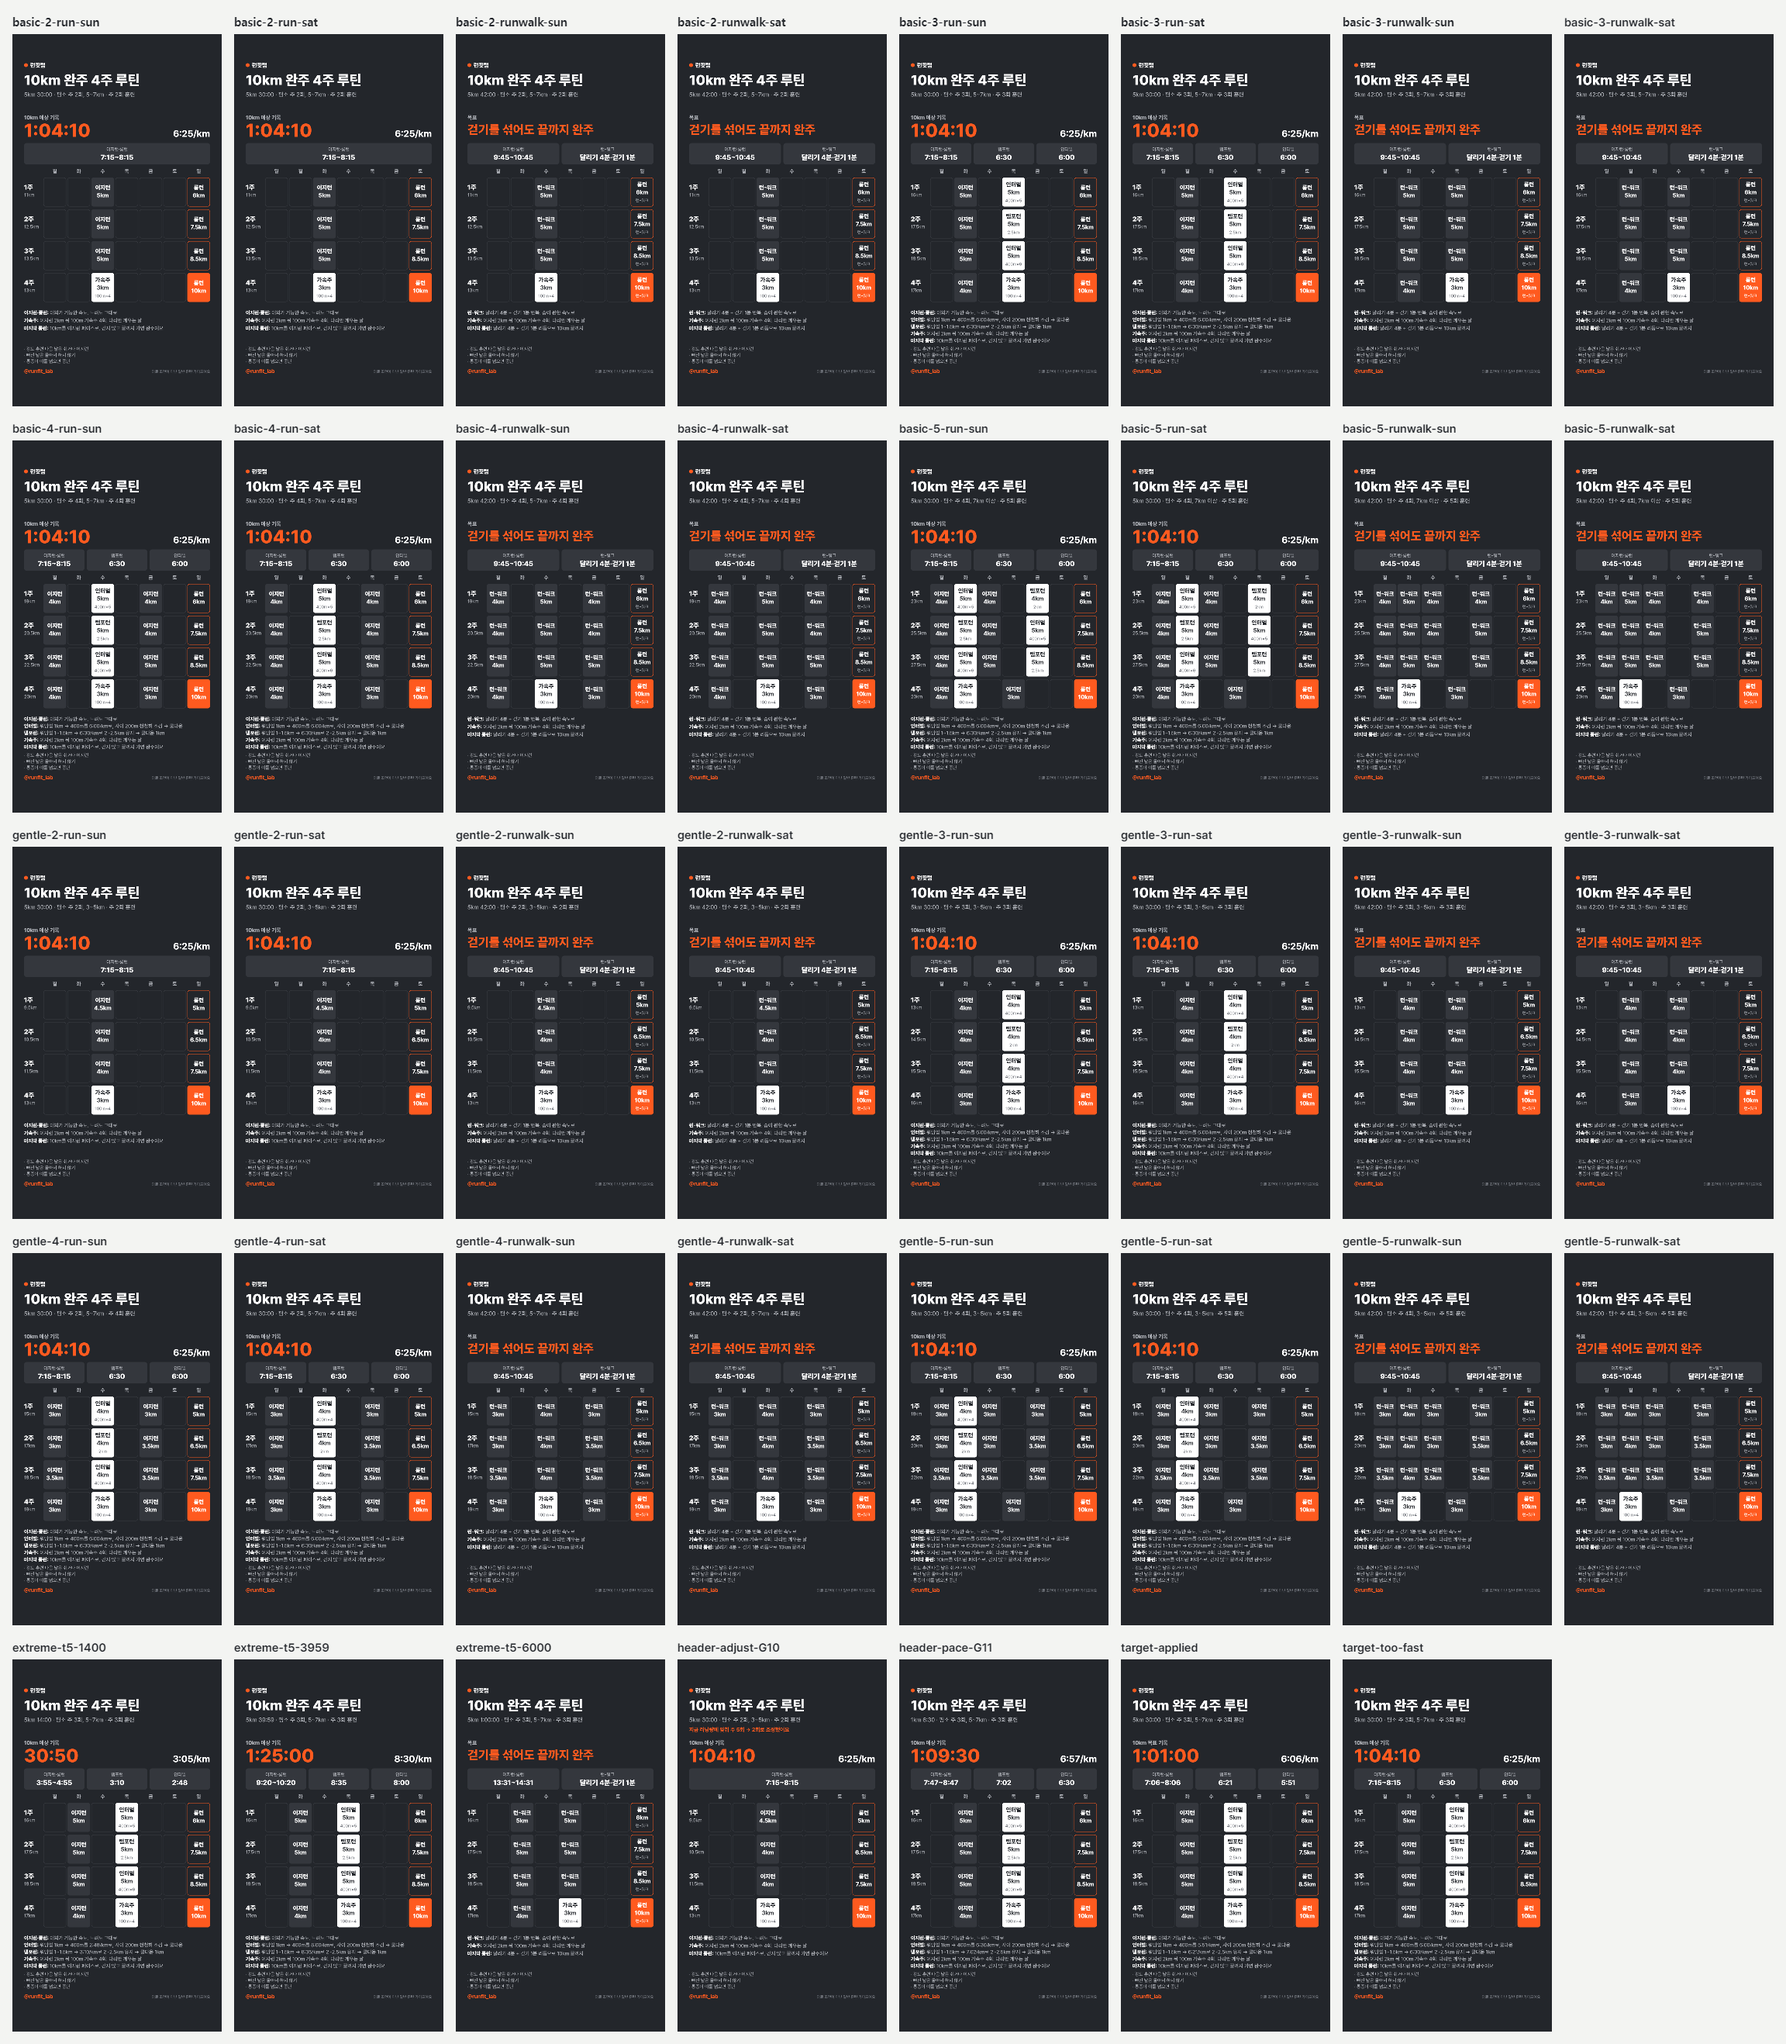
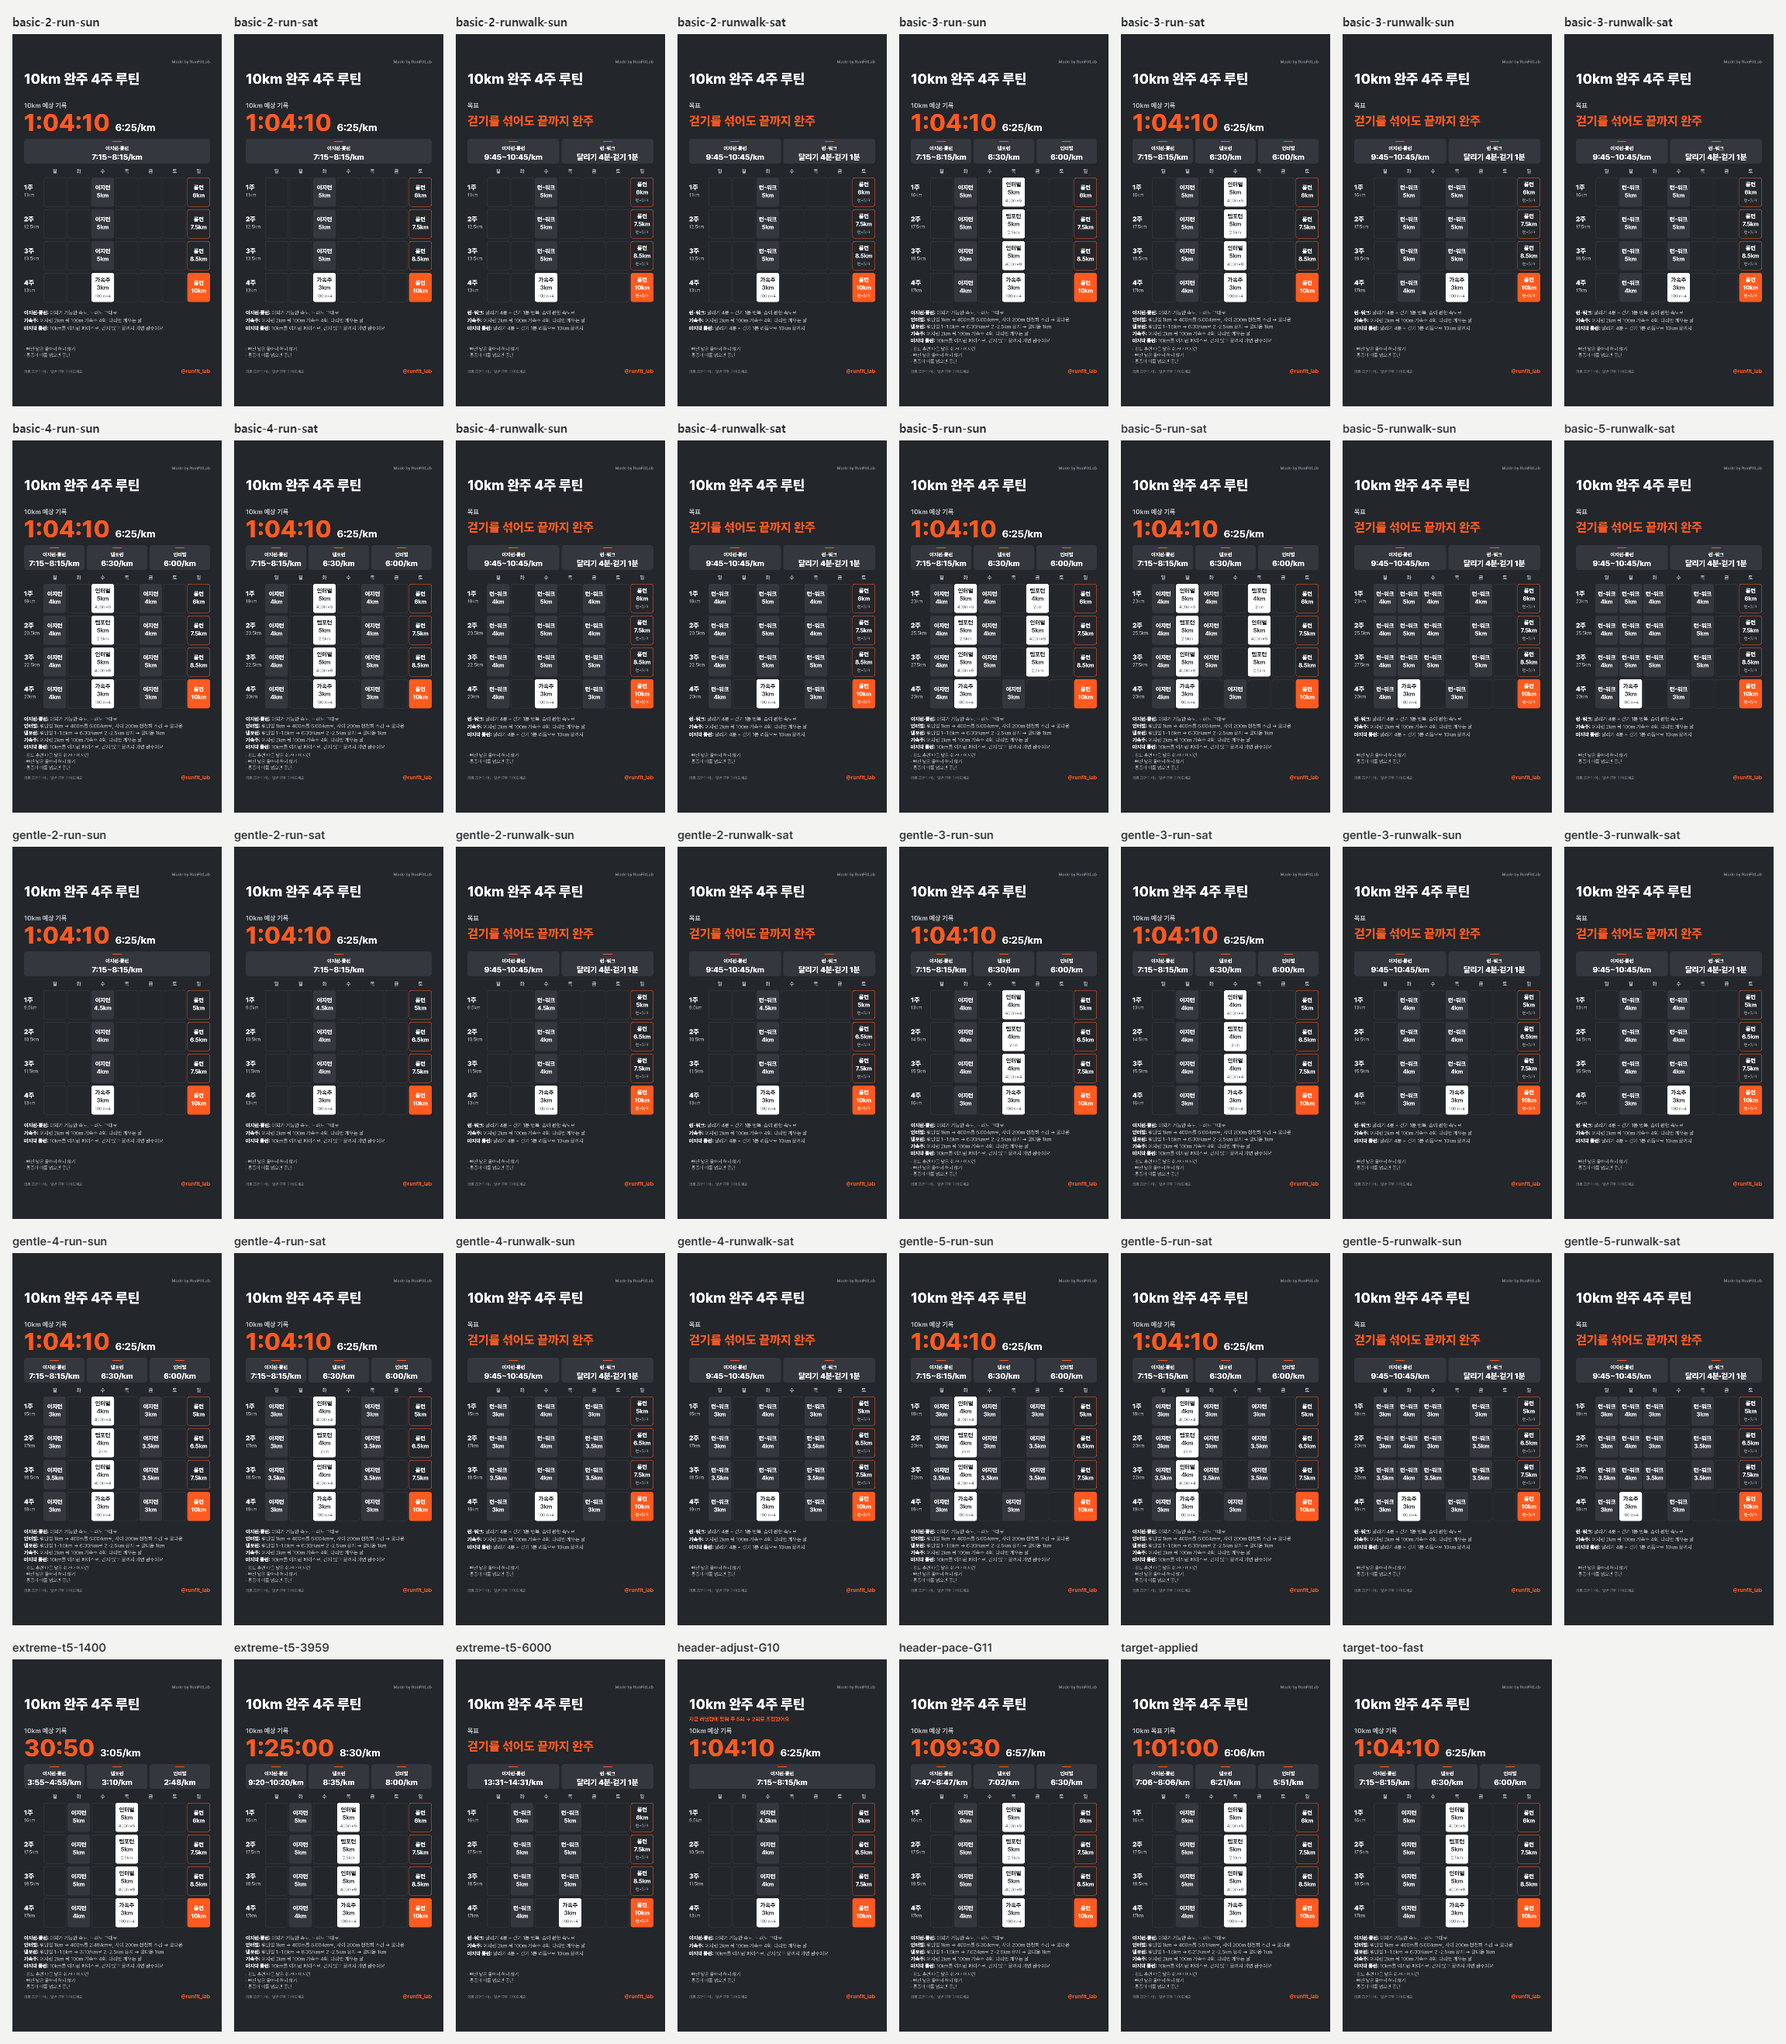
Restyle routine image header, goal line, pace boxes, and footer
- "Made by RunFitLab" small at top right replaces the dot + 런핏랩 brand.
- Drop the input summary line under the title.
- Larger expected/target time with its pace on the same line.
- Pace boxes show "/km", larger values, and a small orange accent.
- "강도 훈련 다음 날…" rule only appears when the routine has interval
  or tempo sessions.
- Footer: disclaimer on the left, @runfit_lab on the right.

diff --git a/plan/10k/render.js b/plan/10k/render.js
@@ -1,7 +1,7 @@
 // 4주 루틴 이미지 (SPEC 7장)
 // layout(plan, measure, opts): 그리기 목록 + overflow 목록을 반환. 글자 폭 측정은 주입받는다.
 // draw(ctx, layout): 목록대로 canvas에 그린다.
-import { RECENT_KM_LABEL, formatClock, formatPace } from "../engine/core.js";
+import { formatClock, formatPace } from "../engine/core.js";
 
 export const WIDTH = 1080;
 export const HEIGHT = 1920;
@@ -34,16 +34,6 @@ const CAL = {
   cellPad: 6,
 };
 CAL.colW = (CONTENT_W - CAL.labelW - CAL.colGap * 6) / 7;
-
-// ---------- 헤더 문구 (7.2) ----------
-
-export function basisLine(plan) {
-  const first = plan.inputMode === "pace"
-    ? `1km ${formatPace(Math.round(plan.t5 / 5))}`
-    : `5km ${formatClock(plan.t5)}`;
-  const recent = `평소 주 ${plan.recentFreq}회${plan.recentFreq >= 5 ? " 이상" : ""}, ${RECENT_KM_LABEL[plan.recentKm]}`;
-  return `${first} · ${recent} · 주 ${plan.freq}회 훈련`;
-}
 
 export function fileName(plan) {
   const mm = Math.floor(plan.t5 / 60);
@@ -96,41 +86,46 @@ export function layout(plan, measure, opts = {}) {
   rect(0, 0, WIDTH, HEIGHT, 0, { fill: C.bg });
 
   // ① 헤더 (120~400)
-  ops.push({ type: "circle", x: L + 10, y: 160, r: 10, fill: C.orange });
-  text("brand", [{ text: "런핏랩", color: C.white }], { x: L + 32, y: 171, weight: 700, size: 30, maxWidth: 400 });
-  text("title", [{ text: "10km 완주 4주 루틴", color: C.white }], { x: L, y: 262, weight: 800, size: 72, minSize: 56, maxWidth: CONTENT_W });
-  text("basis", [{ text: basisLine(plan), color: C.sub }], { x: L, y: 322, weight: 400, size: 30, minSize: 24, maxWidth: CONTENT_W });
+  text("brand", [{ text: "Made by RunFitLab", color: C.dim }], { x: R, y: 150, weight: 700, size: 22, maxWidth: 400, align: "right" });
+  text("title", [{ text: "10km 완주 4주 루틴", color: C.white }], { x: L, y: 256, weight: 800, size: 72, minSize: 56, maxWidth: CONTENT_W });
   if (plan.adjustNote) {
-    text("adjust", [{ text: plan.adjustNote, color: C.orange }], { x: L, y: 372, weight: 700, size: 28, minSize: 22, maxWidth: CONTENT_W });
+    text("adjust", [{ text: plan.adjustNote, color: C.orange }], { x: L, y: 318, weight: 700, size: 28, minSize: 22, maxWidth: CONTENT_W });
   }
 
-  // ② 목표 (400~540)
+  // ② 목표 (400~540): 기록과 페이스를 한 줄에
   if (plan.goalShown) {
-    text("goalLabel", [{ text: goalLabel(plan), color: C.sub }], { x: L, y: 440, weight: 700, size: 28, maxWidth: 400 });
-    text("goalTime", [{ text: formatClock(plan.goalTime), color: C.orange }], { x: L, y: 530, weight: 800, size: 96, minSize: 72, maxWidth: 600 });
-    text("goalPace", [{ text: `${formatPace(plan.pace.goal)}/km`, color: C.white }], { x: R, y: 530, weight: 700, size: 48, minSize: 36, maxWidth: 340, align: "right" });
+    text("goalLabel", [{ text: goalLabel(plan), color: C.sub }], { x: L, y: 380, weight: 700, size: 34, maxWidth: 500 });
+    const pace = `${formatPace(plan.pace.goal)}/km`;
+    const paceFont = (px) => `700 ${px}px ${family}`;
+    const paceW = measure(paceFont(52), pace);
+    const gap = 28;
+    text("goalTime", [{ text: formatClock(plan.goalTime), color: C.orange }], { x: L, y: 500, weight: 800, size: 124, minSize: 88, maxWidth: CONTENT_W - paceW - gap });
+    const timeOp = ops.filter((o) => o.id === "goalTime").at(-1);
+    const timeEnd = timeOp.x + measure(timeOp.font, timeOp.text);
+    text("goalPace", [{ text: pace, color: C.white }], { x: timeEnd + gap, y: 500, weight: 700, size: 52, minSize: 40, maxWidth: R - timeEnd - gap });
   } else {
-    text("goalLabel", [{ text: "목표", color: C.sub }], { x: L, y: 440, weight: 700, size: 28, maxWidth: 400 });
-    text("goalRunWalk", [{ text: "걷기를 섞어도 끝까지 완주", color: C.orange }], { x: L, y: 515, weight: 800, size: 64, minSize: 44, maxWidth: CONTENT_W });
+    text("goalLabel", [{ text: "목표", color: C.sub }], { x: L, y: 380, weight: 700, size: 34, maxWidth: 400 });
+    text("goalRunWalk", [{ text: "걷기를 섞어도 끝까지 완주", color: C.orange }], { x: L, y: 470, weight: 800, size: 64, minSize: 44, maxWidth: CONTENT_W });
   }
 
   // ③ 페이스 (540~680). 루틴에 등장한 세션의 페이스만 보여준다.
-  const easyRange = plan.pace.easy.map(formatPace).join("~");
+  const easyRange = `${plan.pace.easy.map(formatPace).join("~")}/km`;
   const guideKeys = new Set(plan.guide.map((g) => g.key));
   const paceBoxes = plan.runWalk
     ? [["이지런·롱런", easyRange], ["런-워크", "달리기 4분·걷기 1분"]]
     : [
       ["이지런·롱런", easyRange],
-      guideKeys.has("tempo") && ["템포런", formatPace(plan.pace.tempo)],
-      guideKeys.has("interval") && ["인터벌", formatPace(plan.pace.interval)],
+      guideKeys.has("tempo") && ["템포런", `${formatPace(plan.pace.tempo)}/km`],
+      guideKeys.has("interval") && ["인터벌", `${formatPace(plan.pace.interval)}/km`],
     ].filter(Boolean);
   const boxGap = 12;
   const boxW = (CONTENT_W - boxGap * (paceBoxes.length - 1)) / paceBoxes.length;
   paceBoxes.forEach(([label, value], i) => {
     const x = L + i * (boxW + boxGap);
-    rect(x, 562, boxW, 110, 14, { fill: C.easyFill });
-    text(`paceLabel${i}`, [{ text: label, color: C.sub }], { x: x + boxW / 2, y: 602, weight: 400, size: 24, minSize: 20, maxWidth: boxW - 24, align: "center" });
-    text(`paceValue${i}`, [{ text: value, color: C.white }], { x: x + boxW / 2, y: 648, weight: 800, size: 36, minSize: 26, maxWidth: boxW - 24, align: "center" });
+    rect(x, 540, boxW, 128, 16, { fill: C.easyFill });
+    rect(x + boxW / 2 - 24, 552, 48, 5, 2.5, { fill: C.orange });
+    text(`paceLabel${i}`, [{ text: label, color: C.white }], { x: x + boxW / 2, y: 598, weight: 700, size: 26, minSize: 20, maxWidth: boxW - 24, align: "center" });
+    text(`paceValue${i}`, [{ text: value, color: C.white }], { x: x + boxW / 2, y: 648, weight: 800, size: 40, minSize: 26, maxWidth: boxW - 20, align: "center" });
   });
 
   // ④ 캘린더 (680~1400)
@@ -183,13 +178,14 @@ export function layout(plan, measure, opts = {}) {
   });
 
   // ⑥ 규칙 (1600~1700)
-  ["강도 훈련 다음 날은 쉬거나 이지런", "빠진 날은 몰아서 하지 않기", "통증이 이틀 넘으면 중단"].forEach((rule, i) => {
+  const hasHard = guideKeys.has("interval") || guideKeys.has("tempo");
+  [hasHard && "강도 훈련 다음 날은 쉬거나 이지런", "빠진 날은 몰아서 하지 않기", "통증이 이틀 넘으면 중단"].filter(Boolean).forEach((rule, i) => {
     text(`rule${i}`, [{ text: `· ${rule}`, color: C.sub }], { x: L, y: 1632 + i * 32, weight: 400, size: 24, minSize: 20, maxWidth: CONTENT_W });
   });
 
   // ⑦ 푸터 (1700~1760)
-  text("handle", [{ text: "@runfit_lab", color: C.orange }], { x: L, y: 1748, weight: 700, size: 28, maxWidth: 260 });
-  text("disclaimer", [{ text: "의료 조언이 아닌 일반 훈련 가이드예요", color: C.dim }], { x: R, y: 1748, weight: 400, size: 20, minSize: 16, maxWidth: CONTENT_W - 280, align: "right" });
+  text("disclaimer", [{ text: "의료 조언이 아닌 일반 훈련 가이드예요", color: C.dim }], { x: L, y: 1748, weight: 400, size: 20, minSize: 16, maxWidth: CONTENT_W - 280 });
+  text("handle", [{ text: "@runfit_lab", color: C.orange }], { x: R, y: 1748, weight: 700, size: 28, maxWidth: 260, align: "right" });
 
   return { width: WIDTH, height: HEIGHT, family, ops, overflow };
 }
